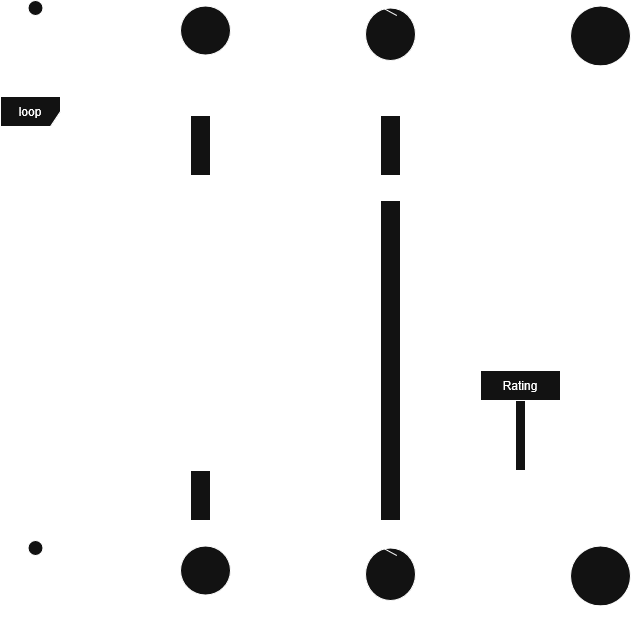
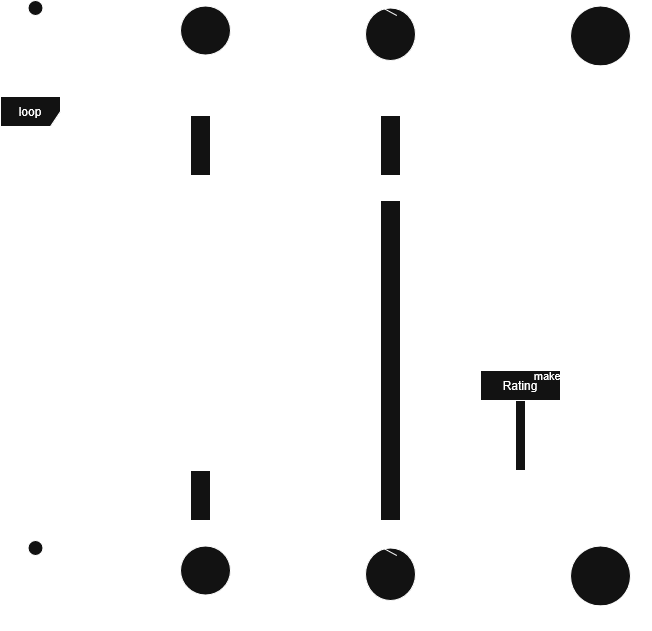
doc: added 3.11 and fixed 3.10

diff --git a/docs/M7/K03_G09_DPPL.md b/docs/M7/K03_G09_DPPL.md
@@ -232,7 +232,7 @@ Silahkan lanjutkan untuk  *use case* berikutnya dengan content yang sama dengan 
 <br>
 
 ## 3.10 Use Case 10
-<b>ID Use Case: </b> UC10
+<b>ID Use Case: </b> UC10<br>
 <b>Nama Use Case: </b> Memberi Rating
 
 ### 3.10.1 Identifikasi Kelas Use Case Memberi Rating
@@ -267,7 +267,7 @@ Silahkan lanjutkan untuk  *use case* berikutnya dengan content yang sama dengan 
         </p>
 </ul>
 
-### 3.1.3 Diagram Kelas
+### 3.10.3 Diagram Kelas
 
 
 <p align="center">
@@ -280,11 +280,74 @@ Silahkan lanjutkan untuk  *use case* berikutnya dengan content yang sama dengan 
 
 
 ## 3.11 Use Case 11
+<b>ID Use Case: </b> UC11<br>
+<b>Nama Use Case: </b> Memasuki akun dalam perangkat lunak
+
+### 3.11.1 Identifikasi Kelas Use Case Memasuki akun dalam perangkat lunak
+| ID Kelas | Nama Kelas | Deskripsi Kelas |
+| :--- | :--- | :--- |
+| C04 | PemberiJasa | Turunan dari kelas Pengguna yang bertanggung jawab dalam proses pekerjaan, memberi rating, memberi laporan kepada layanan pelanggan. Menyimpan titik lokasi, akumulasi rating, identitas pemberi jasa, deskripsi keahlian |
+| C05 | PemberiJasaUI | Kelas yang mengatur penampilan halaman pemberi jasa |
+| C06 | PemberiJasaController | Kelas yang mengatur logika program untuk pemberi jasa |
+| C07 | Pelanggan | Turunan dari kelas Pengguna yang bertanggung jawab dalam proses pemesanan jasa, memasukkan input kesepakatan harga dan pekerjaan dan mengonfirmasi selesainya pekerjaan, melaporkan masalah, dan memberikan rating kepada pemberi jasa. Selain itu, menyimpan data akumulasi rating dan data Pelanggan|
+| C08 | PelangganUI | Kelas yang mengatur penampilan halaman pelanggan | 
+| C09 | PelangganController | Kelas yang mengatur logika program pelanggan | 
+| C10 | LayananPelanggan | Bertanggung jawab dalam proses merespon tiket masalah atau laporan dari pemberi jasa dan pelanggan  | 
+| C11 | LayananPelangganUI | Kelas yang mengatur penampilan halaman pengguna  | 
+| C12 | LayananPelangganController | Kelas yang mengatur logika program untuk pengguna  | 
+
+### 3.11.2 Sequence Diagram
+<ul>
+    <li>Skenario Pelanggan 
+        <p align="center">
+        <img src="./assets/diagram/DiagramUC11SkenarioPelanggan.png" width="50%">
+        </p>
+        <p align="center">
+        <i>Gambar X. Diagram Sequence UC10 Skenario Pelanggan</i>
+        </p>
+    <li>Skenario Pemberi Jasa
+        <p align="center">
+        <img src="./assets/diagram/DiagramUC11SeknarioPemberiJasa.png" width="50%">
+        </p>
+        <p align="center">
+        <i>Gambar X. Diagram Sequence UC10 Skenario Pemberi Jasa</i>
+        </p>
+    <li> Skenario Layanan Pelanggan
+        <p align="center">
+        <img src="./assets/diagram/DiagramUC11SkenarioLayananPelanggan.png" width="50%">
+        </p>
+        <p align="center">
+        <i>Gambar X. Diagram Sequence UC10 Skenario Layanan Pelanggan</i>
+        </p>
+</ul>
+
+### 3.11.3 Diagram Kelas
+<p align="center">
+<img src="./assets/diagram/DiagramClassUC11.png" width="50%">
+</p>
+<p align="center">
+<i>Gambar X. Diagram Kelas UC11</i>
+</p>
+
 
 ## 3.12 Use Case 
 
+<b>ID Use Case: </b> UC11<br>
+<b>Nama Use Case: </b> Memasuki akun dalam perangkat lunak
 
----
+### 3.11.1 Identifikasi Kelas Use Case Memasuki akun dalam perangkat lunak
+| ID Kelas | Nama Kelas | Deskripsi Kelas |
+| :--- | :--- | :--- |
+| C01 | Pengguna | Kelas abstrak yang menyimpan data-data para pengguna aplikasi, seperti pelanggan, pemberi jasa, dan layanan pelanggan |
+| C02 | PenggunaUI | Kelas yang mengatur penampilkan halaman pengguna  |
+| C03 | PenggunaController | Kelas yang mengatur logika program untuk pengguna |
+| C04 | PemberiJasa | Turunan dari kelas Pengguna yang bertanggung jawab dalam proses pekerjaan, memberi rating, memberi laporan kepada layanan pelanggan. Menyimpan titik lokasi, akumulasi rating, identitas pemberi jasa, deskripsi keahlian | 
+| C07 | Pelanggan | Turunan dari kelas Pengguna yang bertanggung jawab dalam proses pemesanan jasa, memasukkan input kesepakatan harga dan pekerjaan dan mengonfirmasi selesainya pekerjaan, melaporkan masalah, dan memberikan rating kepada pemberi jasa. Selain itu, menyimpan data akumulasi rating dan data Pelanggan| 
+
+
+
+
+
 
 # BAB 4: Diagram Kelas Keseluruhan
 
